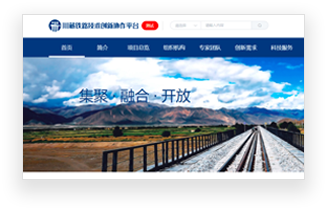
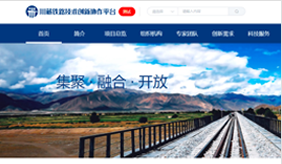
修改图片和一些样式

diff --git a/src/pages/Index.vue b/src/pages/Index.vue
@@ -23,8 +23,8 @@
       <el-carousel
         :interval="3000"
         type="card"
-        height="600px"
-        width="80%"
+        height="650px"
+        width="1200px"
       >
         <el-carousel-item>
           <div class="rotation">
@@ -214,7 +214,7 @@
             alt="Example image"
             src="../../static/home_page/case1.png"
             height="170"
-            width="320"
+            width="300"
             class="rotation-img"
             fit="fill"
           />
@@ -225,7 +225,7 @@
             alt="Example image"
             src="../../static/home_page/case2.png"
             height="170"
-            width="320"
+            width="300"
             class="rotation-img"
             fit="fill"
           />
@@ -236,7 +236,7 @@
             alt="Example image"
             src="../../static/home_page/case3.png"
             height="170"
-            width="320"
+            width="300"
             class="rotation-img"
             fit="fill"
           />
@@ -247,7 +247,7 @@
             alt="Example image"
             src="../../static/home_page/case4.png"
             height="170"
-            width="320"
+            width="300"
             class="rotation-img"
             fit="fill"
           />
@@ -304,7 +304,7 @@ export default {
 }
 
 .line-three {
-  width: 80%;
+  width: 1200px;
   height: 650px;
   padding: 50px 0 50px 0;
   padding-left: 10%;
@@ -324,13 +324,13 @@ export default {
 .el-carousel__item:nth-child(2n) {
   background-color: #99a9bf;
   width: 400px;
-  margin-left: 7%;
+  margin-left: 100px;
 }
 
 .el-carousel__item:nth-child(2n + 1) {
   background-color: #d3dce6;
   width: 400px;
-  margin-left: 7%;
+  margin-left: 100px;
 }
 .rotation {
   width: 100%;
@@ -434,7 +434,6 @@ export default {
 }
 .line-six {
   width: 100%;
-  height: 400px;
   align-items: center;
 }
 .line-six p {
@@ -450,9 +449,12 @@ export default {
   margin-top: 50px;
 }
 .line-six-img {
-  width: 320px;
+  width: 300px;
   height: 400px;
   text-align: center;
+  margin-left: 20px;
+  display: flex;
+  flex-direction: column;
 }
 .line-six-img span {
   font-family: PingFangSC-Medium;

diff --git a/src/pages/product.vue b/src/pages/product.vue
@@ -389,7 +389,7 @@ export default {
   position: absolute;
 }
 .img-hover2 {
-  top: 310px;
+  top: 299px;
   right: calc((100% - 1205px) / 2);
   position: absolute;
 }
